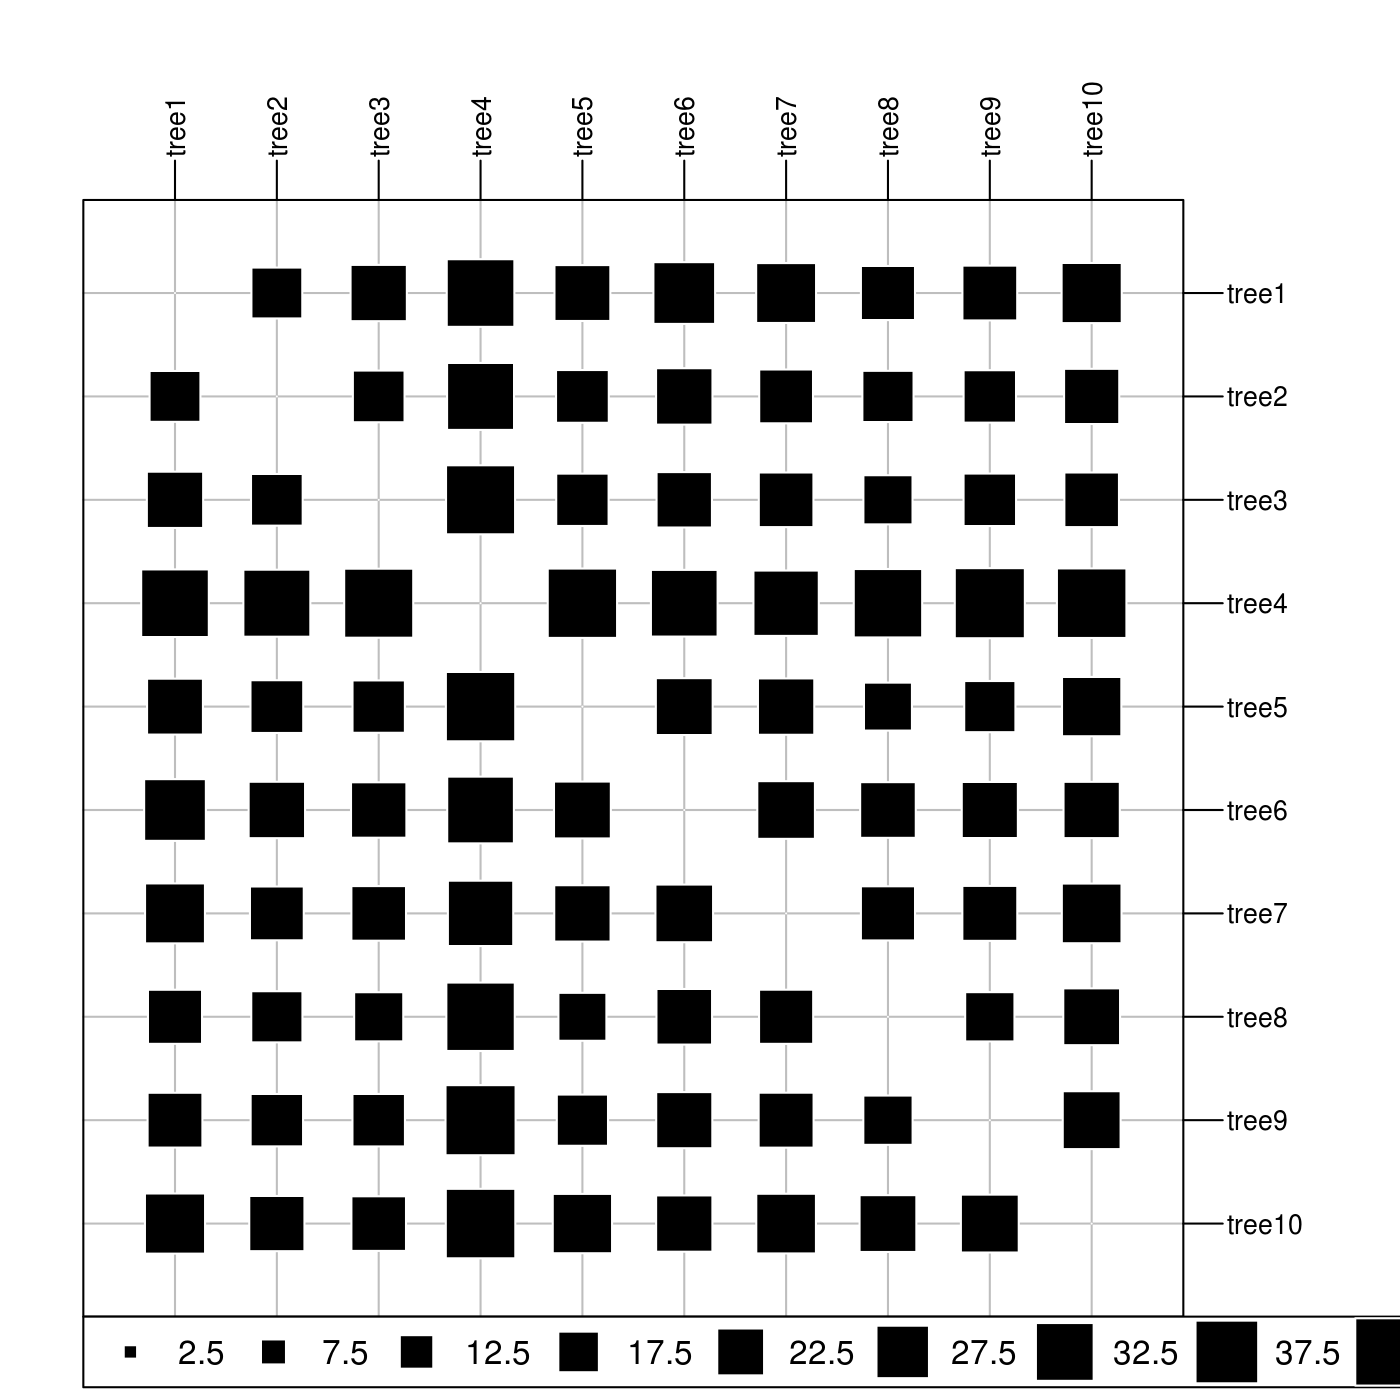
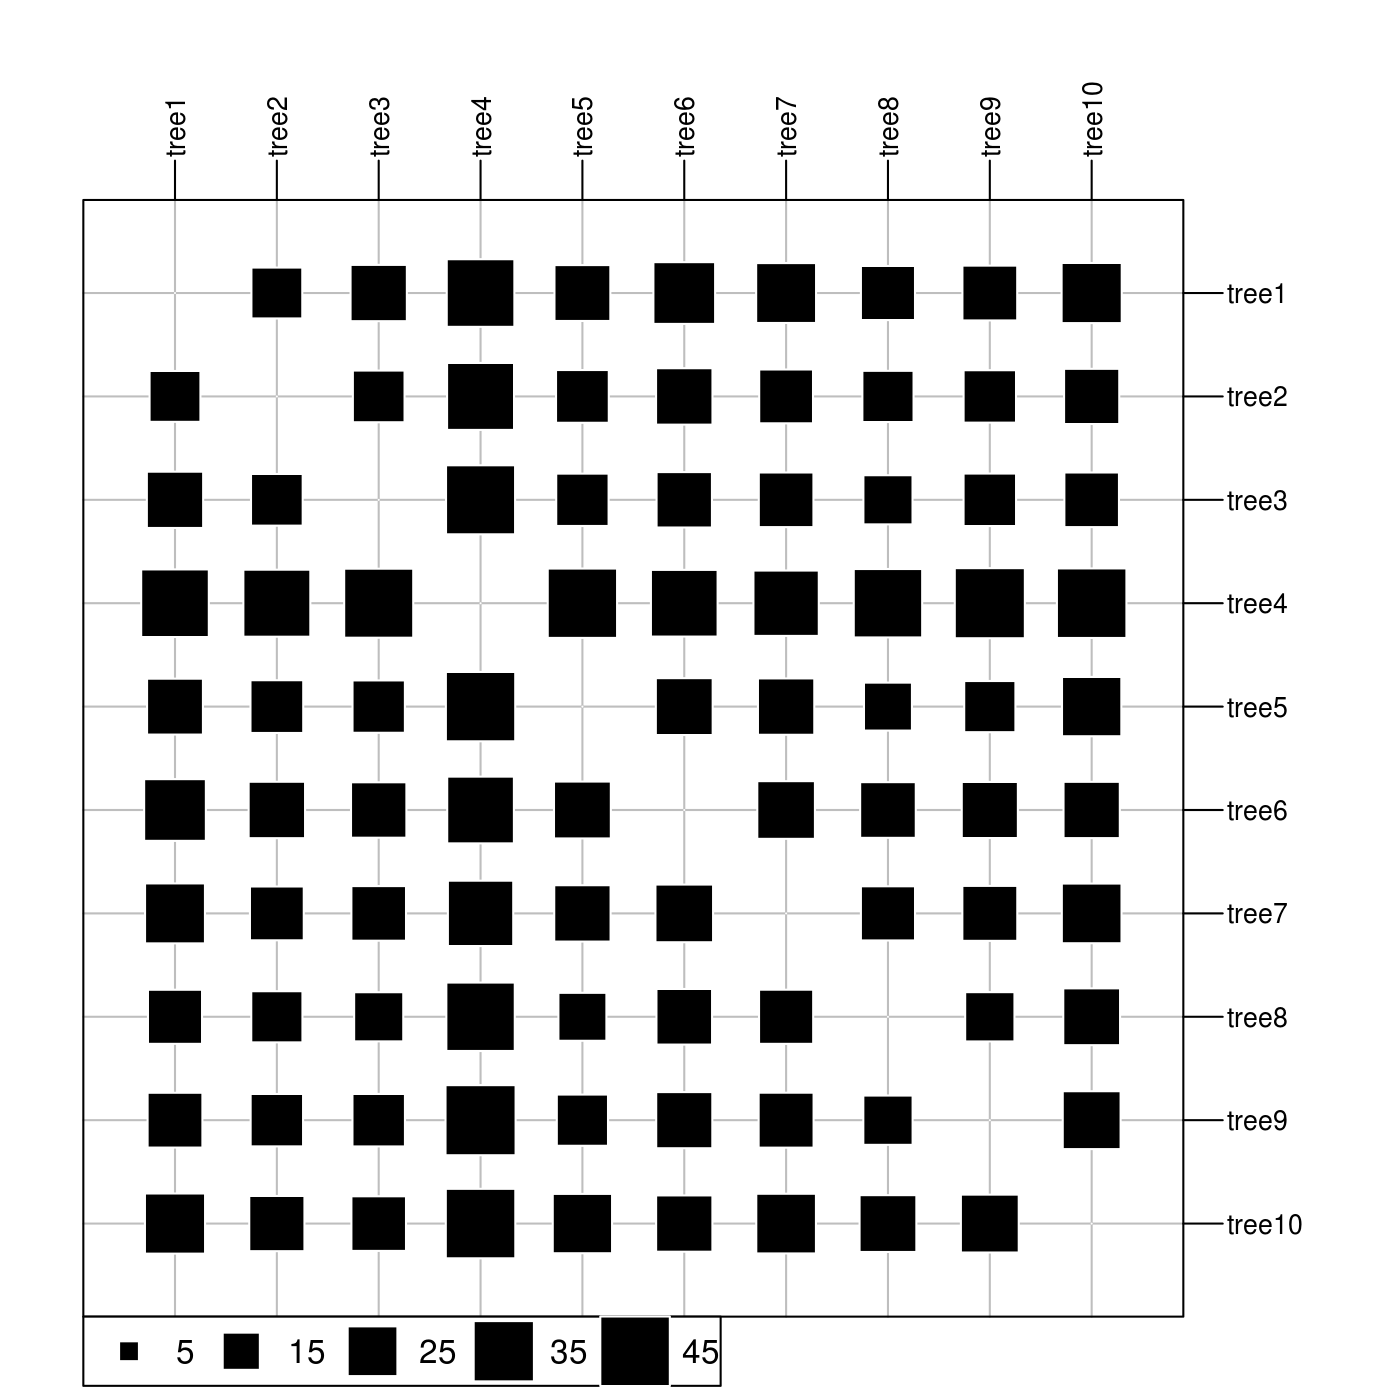
polishing vignette

Changed region(s): [[0.0614, 0.9214, 1.0, 1.0]]

diff --git a/README.md b/README.md
@@ -135,7 +135,7 @@ table.image(res$D, nclass=30)
 
 ```r
 ## table.value
-table.value(res$D, nclass=10)
+table.value(res$D, nclass=5)
 ```
 
 <img src="vignettes/figs/distances-2.png" title="plot of chunk distances" alt="plot of chunk distances" width="400px" />

diff --git a/vignettes/treescape.md b/vignettes/treescape.md
@@ -143,7 +143,7 @@ table.image(res$D, nclass=30)
 
 ```r
 ## table.value
-table.value(res$D, nclass=10)
+table.value(res$D, nclass=5)
 ```
 
 <img src="figs/distances-2.png" title="plot of chunk distances" alt="plot of chunk distances" width="400px" />
